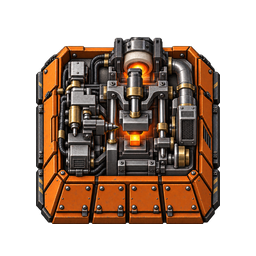
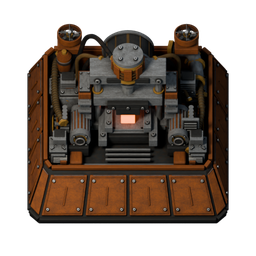
Release 1.1.0
Consolidate detailed models, native activity-driven animations, planetary weathering and effects, compact sprite alignment, Alt icon placement, accessible starter recipes, reduced power costs and crafting order.

diff --git a/README.md b/README.md
@@ -4,15 +4,35 @@ A Factorio 2.0 fork of Advanced Assembly Machines Returns and Altarin's Space Ag
 
 | Crafting speed | Color | Design | Active power (normal quality, no modules) |
 |---|---|---|---|
-| 20 | Green | Refined vanilla mechanical assembly | 3.75 MW |
-| 40 | Orange | Vulcanus metalworking press | 7.5 MW |
-| 80 | Purple | Fulgora electronics assembly | 15 MW |
-| 160 | Blue | Aquilo cryogenic precision work | 30 MW |
-| 320 | White | Final advanced processing chamber | 60 MW |
+| 20 | Green | Refined vanilla mechanical assembly | 375 kW |
+| 40 | Orange | Vulcanus metalworking press | 750 kW |
+| 80 | Purple | Fulgora electronics assembly | 1.5 MW |
+| 160 | Blue | Aquilo cryogenic precision work | 3 MW |
+| 320 | White | Final advanced processing chamber | 6 MW |
 
-Colors follow Matt's Logistics belts. Each tier has its own internal machinery; only the white tier shows the fictional dark-matter effect. These visuals do not add a dark-matter resource or change the selected recipe. Tooling and the final chamber animate through Factorio's native renderer while crafting. There is no runtime Lua script.
+Colors follow Matt's Logistics belts. Each tier has its own internal machinery; only the white tier shows the fictional dark-matter effect. These visuals do not add a dark-matter resource or change the selected recipe.
 
-The original speed-20 recipe, technology, power use and startup options are retained. Module slots remain configurable from 3 to 6 (default 4); the optional Space Age productivity bonus remains 50% and is off by default. Higher tiers require two previous-tier machines, more modules and advanced materials, and progressively more research and power. With Space Age, their recipes and research use Vulcanus, Fulgora and Aquilo materials and technology; the final tier requires quantum processors. Without the DLC, they use base-game materials and science.
+Version 1.1.0 includes all five machines with Blender-rendered models and 48-frame native animation loops. The green machine has a connected gear train and articulated linkages; orange has a guided press; purple has placement heads and tape feeders; blue has reciprocating rotary tooling; white has radial tools around a contained process chamber. Fixed casings, pipework and cables stay stationary. Recolored vanilla-inspired casings have subtle dust and service grime, with more wear on the lower tiers.
+
+Animation uses the engine's activity-based playback and separate shadow sprites, without a runtime Lua animation script. These are visual changes, not a measured FPS or UPS optimization.
+
+## Starter recipes
+
+Every recipe produces one machine and takes 5 seconds before crafting-speed modifiers. All four colored tiers can be crafted directly from an assembling machine 2; they do not consume previous advanced tiers or planetary production buildings.
+
+| Tier | Ingredients with Space Age | Unlock |
+|---|---|---|
+| 20 | 1 assembling machine 2, 10 iron gears, 5 steel plates, 5 electronic circuits | Automation 2, then 50 red/green research cycles |
+| 40 | 1 assembling machine 2, 20 iron gears, 10 steel plates, 10 electronic circuits, 5 tungsten carbide | Foundry technology, then produce 5 tungsten carbide |
+| 80 | 1 assembling machine 2, 20 iron gears, 10 steel plates, 10 electronic circuits, 5 advanced circuits, 5 holmium plates | Holmium processing, then produce 5 holmium plates |
+| 160 | 1 assembling machine 2, 20 iron gears, 10 steel plates, 10 processing units, 5 lithium plates | Lithium processing, then produce 5 lithium plates |
+| 320 | 1 assembling machine 2, 20 iron gears, 20 steel plates, 20 processing units, 10 lithium plates, 10 superconductors | Cryogenic plant technology, then produce 1 cryogenic plant |
+
+The planet tiers use production milestones instead of additional planetary science research. Vulcanus, Fulgora and Aquilo access is independent: unlocking an assembler on one planet does not require the assembler from another. The white tier becomes available with the first cryogenic plant, without quantum processors.
+
+Without Space Age, colored machines use an assembling machine 2, 20 iron gears, 10 steel plates (20 for white), and 10 advanced circuits for orange/purple or 10 processing units for blue (20 for white). Research costs 75/100/125/150 cycles, adding blue, purple and yellow science through normal base-game progression.
+
+Crafting speeds and startup options are retained. Module slots remain configurable from 3 to 6 (default 4); the optional Space Age productivity bonus remains 50% and is off by default. Active power is reduced to 375 kW / 750 kW / 1.5 MW / 3 MW / 6 MW to reduce the power barrier for starter factories.
 
 All five remain multipurpose assembling machines, with the port's crafting categories and two fluid inputs/two outputs. The art themes do not restrict them to their pictured manufacturing task. Actual recipe surface requirements still apply.
 
@@ -24,7 +44,9 @@ Existing speed-20 machines, items, recipes and research keep their prototype nam
 
 ## Validation
 
-Tested with Factorio 2.0.77 in isolated game data directories. Loading a copy of New_clean retained all 40 existing advanced machines. The functional fixture exercised all five machines with all nine installed Miniloaders Redux tiers, including Matt's Logistics variants: 45 input/output combinations. Two-input/two-output fluid production passed at all four rotations for every machine. Ordinary inserters supplied the three-tile machine from all four sides. Native rendering and a base-game-only load were also checked.
+The redesign was checked with Factorio 2.0.77 in an isolated copy of New_clean, retaining all 40 existing advanced machines. All five tiers passed input and output tests with nine Miniloaders Redux variants, including Matt's Logistics: 45 combinations. Two-input/two-output fluid production passed at all four rotations for every tier. Ordinary inserters supplied the green machine from all four sides, and four separate forces unlocked the planetary tiers through production milestones.
+
+Consecutive native screenshots confirmed animation on all five tiers with continuous supply, less frequent motion with one craft per second, and no motion during the idle capture. Day and night rendering and sprite placement beside a vanilla assembler were inspected. A separate base-game-only save creation also passed. These checks are functional and visual tests, not a performance benchmark.
 
 This is a graphics, footprint and progression fork. Code cleanup removes a redundant vanilla recipe-category definition, an obsolete mining field, hardcoded references to absent categories, and malformed locale data. The upstream already uses native crafting rather than per-tick Lua; no measured UPS gain is attributed to these changes.
 
@@ -36,3 +58,7 @@ This is a graphics, footprint and progression fork. Code cleanup removes a redun
 - Fork maintained by johnmart19. New machine artwork and native animation assets included under the Unlicense.
 
 Matt's Logistics is a palette reference and tested companion mod; it is not required. This repository is independently created because no upstream source repository is listed.
+
+## Latest graphics update (1.1.0)
+
+Matte planetary dust and oily seams reduce the polished appearance. Vulcanus has a cycling hot billet, Fulgora has contained coil discharges, and Aquilo has a subtle cryogenic bed pulse. Clean idle frames prevent frozen transient effects. Smaller sprites and repositioned Alt icons improve three-tile layouts; loaders remain separate entities. All five tiers have 48 distinct production frames, with working motion and static idle states verified in Factorio 2.0.77. Real robot-built loader connections also passed 48 assembler direction/input-output cases.
